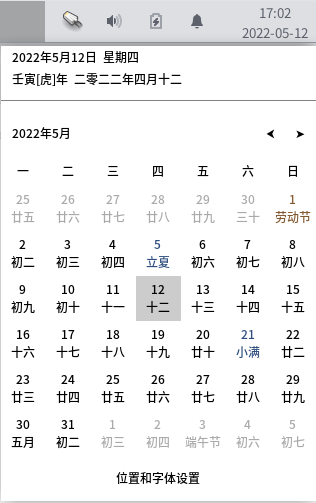
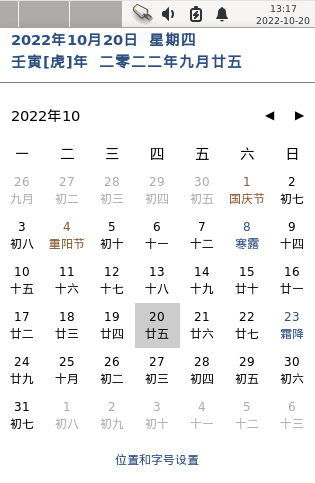
解决闪窗的问题

diff --git a/lunar.py b/lunar.py
@@ -3,13 +3,12 @@
 
 from tkinter import *
 from tkinter import ttk
-from tkinter import messagebox
 import os
+import sys
 from lunardata import *
 from config import *
-from pathlib import Path
 
-__author__ = {'name' : 'TestPoo', 'created' : '2022-05-05'}
+__author__ = {'name' : 'TestPoo', 'created' : '2022-05-05', 'modify' : '2022-10-19'}
 
 #**实现界面功能****
 class Application_ui(Frame):
@@ -18,54 +17,40 @@ class Application_ui(Frame):
         self.dpi=self.xdpi()
         self.master.title('万年历')
         self.master["bg"]='#fff'
-        self.master.geometry('%dx%d'%(315*self.dpi,455*self.dpi))
         self.createWidgets()
         self.position()
 
     def xdpi(self):
+        self.xdpi = 1
         temps = os.popen('xrdb -query').readlines()
-
-        for temp in temps:
-            temp = temp.split(':')
-            if temp[0] == 'Xft.dpi':
-                self.xdpi = int(temp[1].replace('\n','').replace('\t',''))/96
+        if temps != '':
+            for temp in temps:
+                temp = temp.split(':')
+                if temp[0] == 'Xft.dpi':
+                    self.xdpi = int(temp[1].replace('\n','').replace('\t',''))/96
                 break
-            else:
-                self.xdpi = 1
         return self.xdpi
 
     def position(self):
-        #top.overrideredirect(True)
         top.attributes('-type', 'dock')
         top.resizable(False,False)
-        top.iconify() # 隐藏窗口
-        top.update() # 更新窗口
         curWidth = top.winfo_width() # 获取窗口宽度
         curHeight = top.winfo_height() # 获取窗口高度
-        #scnWidth,scnHeight = top.maxsize() # 获取屏幕宽度和高度
-        if config['place'] == '左上':
-            tmpplace = '%dx%d+%d+%d'%(curWidth,curHeight,config['left'],config['top'])
-        elif config['place'] == '右下':
-            tmpplace = '%dx%d-%d-%d'%(curWidth,curHeight,config['right'],config['bottom'])
-        elif config['place'] == '右上':
-            tmpplace = '%dx%d-%d+%d'%(curWidth,curHeight,config['right'],config['top'])
-        elif config['place'] == '左下':
-            tmpplace = '%dx%d+%d-%d'%(curWidth,curHeight,config['left'],config['bottom'])
+        tmpplace = '%dx%d%s%s'%(curWidth,curHeight,config['lright'],config['tbottom'])
         top.geometry(tmpplace)
-        top.deiconify()   # 显示窗口
+        top.geometry('%dx%d'%(315*self.dpi,455*self.dpi))
         top.attributes("-topmost", True)   # 最上层显示
-        #top.after(1, lambda: top.focus_force())
         top.focus_force()   # 获取焦点
 
     def createWidgets(self):
-        self.top = self.winfo_toplevel()
+        top = self.winfo_toplevel()
 
         self.nyr,self.nlnyr,self.xinqi,self.rilitian = show_month(datetime.now().year, datetime.now().month, datetime.now().day)
         
         self.style = ttk.Style()
-        self.style.configure("TLabel",foreground="#000",background="#fff",font=(config['font'],config['fontSize'] + 2))
-        self.style.configure("Title.TLabel",foreground="#2e4e7e",font=(config['font'],config['fontSize'] + 2,"bold"))
-        self.style.configure("TButton",foreground="#000",background="#fff",borderwidth=0,font=(config['font'],config['fontSize']),justify='center',relief=FLAT)
+        self.style.configure("TLabel",foreground="#000",background="#fff",font=('',config['fontSize']+2))
+        self.style.configure("Title.TLabel",foreground="#2e4e7e",font=('',config['fontSize']+2,"bold"))
+        self.style.configure("TButton",foreground="#000",background="#fff",borderwidth=0,font=('',config['fontSize']),justify='center',relief=FLAT)
         self.style.configure("Today.TButton",background="#ccc")
         self.style.configure("PerNext.TButton",foreground="#aaa")
         self.style.configure("Festival.TButton",foreground="#845a33")
@@ -109,10 +94,22 @@ class Application_ui(Frame):
             self.button.place(x=45*self.dpi*n,y=140*self.dpi+45*self.dpi*m,width=45*self.dpi,height=45*self.dpi)
             self.button_list.append(self.button)
         
-        ttk.Button(top,text="⮜",command = self.pre_Cal).place(x=255*self.dpi,y=65*self.dpi,width=30*self.dpi,height=45*self.dpi)
-        ttk.Button(top,text="➤",command = self.next_Cal).place(x=285*self.dpi,y=65*self.dpi,width=30*self.dpi,height=45*self.dpi)
+        ttk.Button(top,text="◀",command = self.pre_Cal).place(x=255*self.dpi,y=65*self.dpi,width=30*self.dpi,height=45*self.dpi)
+        ttk.Button(top,text="▶",command = self.next_Cal).place(x=285*self.dpi,y=65*self.dpi,width=30*self.dpi,height=45*self.dpi)
         ttk.Separator(top,orient=HORIZONTAL).place(x=0,y=54*self.dpi,width=315*self.dpi,height=2*self.dpi)
-        ttk.Button(top,text="位置和字体设置",command = self.setCal,style="Set.TButton").place(x=0,y=410*self.dpi,width=315*self.dpi,height=45*self.dpi)
+        ttk.Button(top,text="位置和字号设置",command = self.setCal,style="Set.TButton").place(x=0,y=410*self.dpi,width=315*self.dpi,height=45*self.dpi)
+    
+        ttk.Label(top, text="左右",anchor='center').place(x=10*self.dpi,y=465*self.dpi,width=45*self.dpi,height=30*self.dpi)
+        self.firstEntry = StringVar(value=config['lright'])
+        self.lright = ttk.Entry(top,justify='center',textvariable=self.firstEntry).place(x=60*self.dpi,y=465*self.dpi,width=45*self.dpi,height=30*self.dpi)
+        ttk.Label(top, text="上下",anchor='center').place(x=110*self.dpi,y=465*self.dpi,width=45*self.dpi,height=30*self.dpi)
+        self.secondEntry = StringVar(value=config['tbottom'])
+        self.tbottom = ttk.Entry(top,justify='center',textvariable=self.secondEntry).place(x=160*self.dpi,y=465*self.dpi,width=45*self.dpi,height=30*self.dpi)
+        ttk.Label(top, text="字号",anchor='center').place(x=210*self.dpi,y=465*self.dpi,width=45*self.dpi,height=30*self.dpi)
+        self.thirdEntry = StringVar(value=config['fontSize'])
+        self.fontSize = ttk.Entry(top,justify='center',textvariable=self.thirdEntry).place(x=260*self.dpi,y=465*self.dpi,width=45*self.dpi,height=30*self.dpi)
+    
+        ttk.Button(top,text="保存",command = self.setSave,style="Set.TButton").place(x=0*self.dpi,y=500*self.dpi,width=315*self.dpi,height=40*self.dpi)
         
         top.bind('<FocusOut>', self.lossfocus)   # 失去焦点时，关闭窗口
 
@@ -120,16 +117,10 @@ class Application_ui(Frame):
 class Application(Application_ui):
     def __init__(self, master=None):
         Application_ui.__init__(self, master)
-        # 直接执行和加入一般监视器路径兼容
-        self.filePath = Path(os.getcwd() + "/.xfce-lunar/clock.png")
-        if self.filePath.is_file():
-            self.file = os.getcwd() + "/.xfce-lunar/"
-        else:
-            self.file = os.getcwd() + "/"
 
     def lossfocus(self, event=None):
         if event.widget == top:
-            self.top.destroy()
+            top.destroy()
 
     def pre_Cal(self, event=None):
         for b in self.button_list:
@@ -156,115 +147,26 @@ class Application(Application_ui):
         self.label1.config(text=str(self.year)+"年"+str(self.month)+"月")
         self.rilitian = show_month(self.year, self.month, 1)[-1]
         self.addButton(self.rilitian)
-
-    def go(self, event=None):
-        if self.placeComvalue.get() == '左上':
-            self.varlabel1.set('左')
-            self.varlabel2.set('上')
-            self.firstEntry.set(config['left'])
-            self.secondEntry.set(config['top'])
-        elif self.placeComvalue.get() == '右上':
-            self.varlabel1.set('右')
-            self.varlabel2.set('上')
-            self.firstEntry.set(config['right'])
-            self.secondEntry.set(config['top'])
-        elif self.placeComvalue.get() == '左下':
-            self.varlabel1.set('左')
-            self.varlabel2.set('下')
-            self.firstEntry.set(config['left'])
-            self.secondEntry.set(config['bottom'])
-        elif self.placeComvalue.get() == '右下':
-            self.varlabel1.set('右')
-            self.varlabel2.set('下')
-            self.firstEntry.set(config['right'])
-            self.secondEntry.set(config['bottom'])
     
     def setSave(self, event=None):
-        if self.placeComvalue.get() == '左上':
-            value1 = int(self.firstEntry.get())
-            value2 = int(self.secondEntry.get())
-            value3 = self.fontComvalue.get()
-            value4 = int(self.fontSizeEntry.get())
-            tempConfig = "# coding=utf-8\n\nconfig = {'place':'%s','left':%d,'right':%d,'top':%d,'bottom':%d,'font':'%s','fontSize':%d}"%('左上',value1,0,value2,0,value3,value4)
-        elif self.placeComvalue.get() == '右上':
-            value1 = int(self.firstEntry.get())
-            value2 = int(self.secondEntry.get())
-            value3 = self.fontComvalue.get()
-            value4 = int(self.fontSizeEntry.get())
-            tempConfig = "# coding=utf-8\n\nconfig = {'place':'%s','left':%d,'right':%d,'top':%d,'bottom':%d,'font':'%s','fontSize':%d}"%('右上',0,value1,value2,0,value3,value4)
-        elif self.placeComvalue.get() == '左下':
-            value1 = int(self.firstEntry.get())
-            value2 = int(self.secondEntry.get())
-            value3 = self.fontComvalue.get()
-            value4 = int(self.fontSizeEntry.get())
-            tempConfig = "# coding=utf-8\n\nconfig = {'place':'%s','left':%d,'right':%d,'top':%d,'bottom':%d,'font':'%s','fontSize':%d}"%('左下',value1,0,0,value2,value3,value4)
-        elif self.placeComvalue.get() == '右下':
-            value1 = int(self.firstEntry.get())
-            value2 = int(self.secondEntry.get())
-            value3 = self.fontComvalue.get()
-            value4 = int(self.fontSizeEntry.get())
-            tempConfig = "# coding=utf-8\n\nconfig = {'place':'%s','left':%d,'right':%d,'top':%d,'bottom':%d,'font':'%s','fontSize':%d}"%('右下',0,value1,0,value2,value3,value4)
-        with open(self.file + 'config.py','w',encoding='utf-8') as f:
+        value1 = self.firstEntry.get()
+        value2 = self.secondEntry.get()
+        value3 = int(self.thirdEntry.get())
+        tempConfig = "# coding=utf-8\n\nconfig = {'lright':'%s','tbottom':'%s','fontSize':%d}"%(value1,value2,value3)
+        # 
+        if os.path.exists(os.getcwd()+'/.xfce-lunar/config.py'):
+            path = os.getcwd()+'/.xfce-lunar'
+        else:
+            path = os.getcwd()
+        with open('/home/poo/log','w') as t:
+            t.write(path+'/config.py')
+        with open(path+'/config.py','w',encoding='utf-8') as f:
             f.write(tempConfig)
-        messagebox.showinfo('提示','修改成功~！')
-
+        python = sys.executable
+        os.execl(python, python, * sys.argv)
+    
     def setCal(self, event=None):
-        self.top.destroy()
-        set = Tk()
-        set.title("万年历设置")
-        set.resizable(0,0)
-        set['background'] = '#f6f5f4'
-        set.geometry("%dx%d"%(290*self.dpi,170*self.dpi))
-        set.attributes("-topmost", True)
-        set.iconphoto(False, PhotoImage(file=self.file + 'clock.png'))
-    
-        self.setStyle = ttk.Style()
-        self.setStyle.configure("TLabel",foreground="#000",background="#f6f5f4",borderwidth=0,font=(config['font'],config['fontSize']))
-        self.setStyle.configure("TFrame",foreground="#000",background="#f6f5f4",borderwidth=0,font=(config['font'],config['fontSize']))
-        self.setStyle.configure("TButton",foreground="#000",background="#ddd",borderwidth=0,activebackground="#fff",highlightbackground="#fff",font=(config['font'],config['fontSize']),relief=FLAT)
-        self.setStyle.configure('TEntry',borderwidth=0)
-        self.setStyle.configure('TCombobox',borderwidth=0,background="#d9d9d9",relief=FLAT)
-        self.setStyle.configure("TScrollbar",borderwidth=-3)
-    
-        ttk.Label(set, text="位置",anchor='center').place(x=10*self.dpi,y=10*self.dpi,width=45*self.dpi,height=30*self.dpi)
-        self.placeComvalue=StringVar(value=config['place'])#窗体自带的文本，新建一个值
-        self.placeComboxlist=ttk.Combobox(set,textvariable=self.placeComvalue,justify='center',state='readonly',font=(config['font'],config['fontSize'])) #初始化
-        self.placeComboxlist["values"]=("左上","左下","右上","右下")
-        #self.placeComboxlist.current(0) #选择第一个
-        self.placeComboxlist.bind("<<ComboboxSelected>>",self.go) #绑定事件,(下拉列表框被选中时，绑定go()函数)
-        self.placeComboxlist.place(x=60*self.dpi,y=10*self.dpi,width=220*self.dpi,height=30*self.dpi)
-        self.varlabel1 = StringVar(value=config['place'][0])
-        ttk.Label(set,textvariable=self.varlabel1,anchor='center').place(x=10*self.dpi,y=50*self.dpi,width=45*self.dpi,height=30*self.dpi)
-        if self.placeComvalue.get()[0] == '左':
-            self.firstEntry = StringVar(value=config['left'])
-        elif self.placeComvalue.get()[0] == '右':
-            self.firstEntry = StringVar(value=config['right'])
-        self.first = ttk.Entry(set,justify='center',textvariable=self.firstEntry).place(x=60*self.dpi,y=50*self.dpi,width=80*self.dpi,height=30*self.dpi)
-        self.varlabel2 = StringVar(value=config['place'][1])
-        ttk.Label(set,textvariable=self.varlabel2,anchor='center').place(x=150*self.dpi,y=50*self.dpi,width=45*self.dpi,height=30*self.dpi)
-        if self.placeComvalue.get()[1] == '上':
-            self.secondEntry = StringVar(value=config['top'])
-        elif self.placeComvalue.get()[1] == '下':
-            self.secondEntry = StringVar(value=config['bottom'])
-        self.second = ttk.Entry(set,justify='center',textvariable=self.secondEntry,font=(config['font'],config['fontSize'])).place(x=200*self.dpi,y=50*self.dpi,width=80*self.dpi,height=30*self.dpi)
-    
-        temp = os.popen('fc-list :lang=Zh')
-        fonts = []
-        for line in temp.readlines():
-            line = line.split(':')[1].split(',')[0].strip()
-            if line not in fonts:
-                fonts.append(line)
-    
-        ttk.Label(set, text="字体",anchor='center').place(x=10*self.dpi,y=90*self.dpi,width=45*self.dpi,height=30*self.dpi)
-        self.fontComvalue=StringVar(value=config['font'])
-        self.fontComboxlist=ttk.Combobox(set,justify='center',textvariable=self.fontComvalue,state='readonly',font=(config['font'],config['fontSize']))
-        self.fontComboxlist["values"]=fonts
-        #self.fontComboxlist.current(0)
-        self.fontComboxlist.place(x=60*self.dpi,y=90*self.dpi,width=190*self.dpi,height=30*self.dpi)
-        self.fontSizeEntry = StringVar(value=config['fontSize'])
-        self.fontSize = ttk.Entry(set,justify='center',textvariable=self.fontSizeEntry,font=(config['font'],config['fontSize'])).place(x=252*self.dpi,y=90*self.dpi,width=28*self.dpi,height=30*self.dpi)
-        ttk.Button(set,text="保存",command = self.setSave).place(x=10*self.dpi,y=130*self.dpi,width=270*self.dpi,height=30*self.dpi)
-        set.mainloop()
+        top.geometry('%dx%d'%(315*self.dpi,540*self.dpi))
 
 if __name__ == "__main__":
     top = Tk()

diff --git a/config.py b/config.py
@@ -1,3 +1,3 @@
 # coding=utf-8
 
-config = {'place':'右下','left':0,'right':2,'top':0,'bottom':50,'font':'霞鹜文楷','fontSize':9}
+config = {'lright':'-10','tbottom':'+0','fontSize':9}

diff --git a/README.md b/README.md
@@ -22,12 +22,11 @@ cd xfce-lunar
 
 ### 展示
 ![xfce-lunar](lunar.png)
+![xfce-lunar-set](lunar-set.png)
 
 ### 设置
-![xfce-lunar-set](set.png)
-
-- 位置分为左上、右上、左下、右下，选择对应的位置会出现对应的值，如：左上，下方会有到屏幕左边界和上边界的距离（单位px)
+- 设置包括左右、上下、字号3个，其中左右+为左、右为-，上为+、下为-，所以左和上使用正数，右和下使用负数；字号填写数字即可。
 - 字体显示系统所有支持汉字的字体，可直接选择，其后是字体大小
 
 ### 注意
-- 仅在debian11/12 xfce4.16桌面下测试通过，理论上来说其他有python3环境的xfce桌面也可以使用。
+- 仅在debian11/testing xfce4.16桌面下测试通过，理论上来说其他有python3环境的xfce桌面也可以使用。
